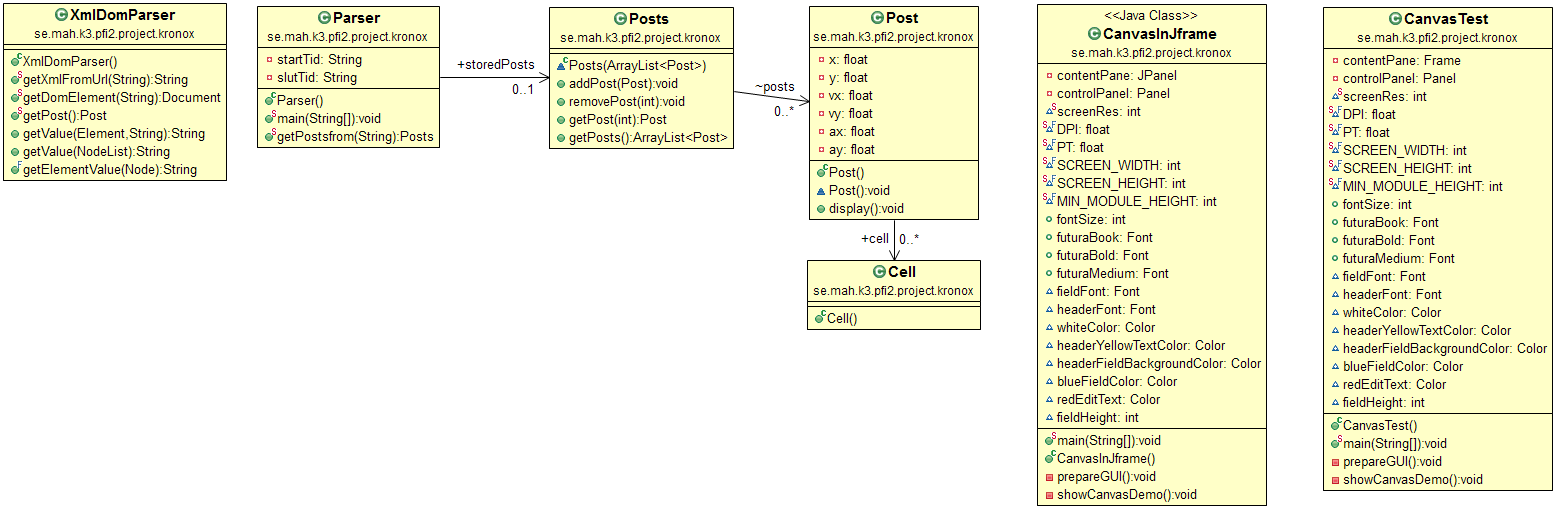
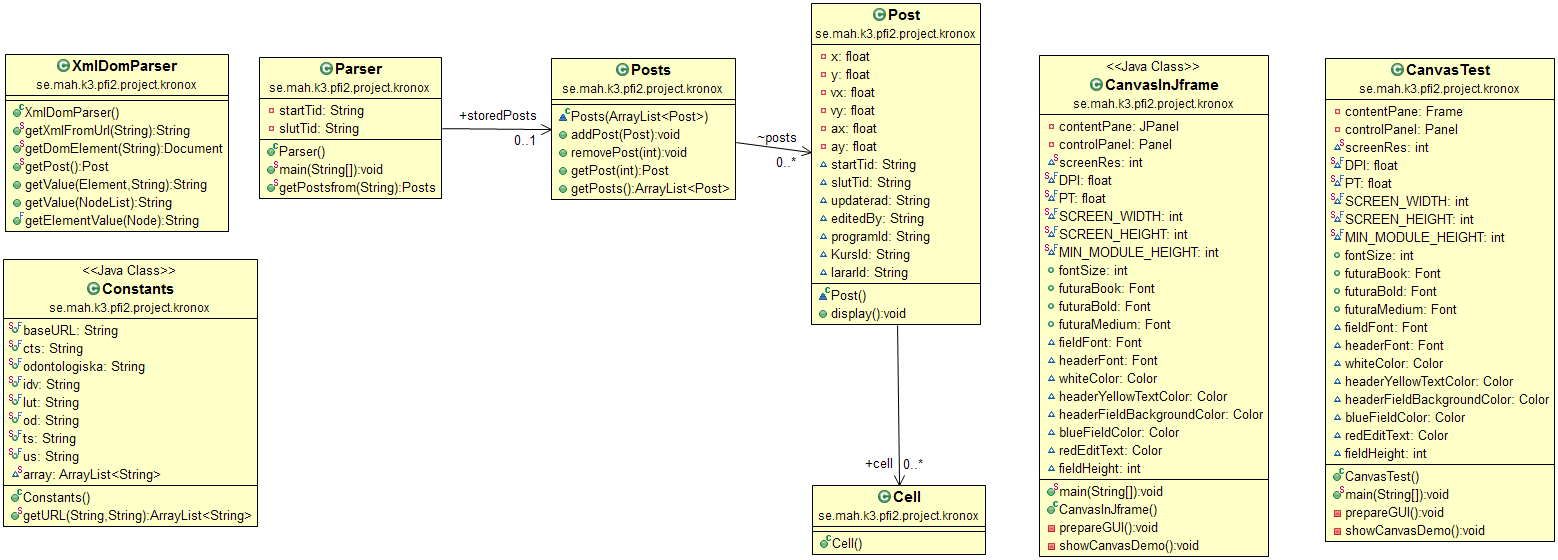
post storing data from XML & graphics in a folder

diff --git a/Pfi2Project15/src/se/mah/k3/pfi2/project/kronox/Post.java b/Pfi2Project15/src/se/mah/k3/pfi2/project/kronox/Post.java
@@ -17,8 +17,9 @@ public class Post {
 	 * 
 	 * */
 	private float x, y, vx, vy, ax, ay; // for animation
-	public Cell[] cell= new Cell[5];
-	String startTid,slutTid,updaterad,editedBy,programId,KursId,lararId;
+	private Cell[] cell= new Cell[5]; // diffrent colunm in canvas
+	private String startTid,slutTid,updaterad,editedBy,editedSince,programId,KursId,lararId,salID,moment;
+	private boolean raderad,temp,dubbelBokad,extern,onskad;
 	
 
 	Post(){
@@ -28,12 +29,183 @@ public class Post {
 		
 	}
 
-	void Post() {
-
-	}
-
 	public void display() {
 
 	}
+	public float getX() {
+		return x;
+	}
+
+	public void setX(float x) {
+		this.x = x;
+	}
+
+	public float getY() {
+		return y;
+	}
+
+	public void setY(float y) {
+		this.y = y;
+	}
+
+	public float getVx() {
+		return vx;
+	}
+
+	public void setVx(float vx) {
+		this.vx = vx;
+	}
+
+	public float getVy() {
+		return vy;
+	}
+
+	public void setVy(float vy) {
+		this.vy = vy;
+	}
+
+	public float getAx() {
+		return ax;
+	}
+
+	public void setAx(float ax) {
+		this.ax = ax;
+	}
+
+	public float getAy() {
+		return ay;
+	}
+
+	public void setAy(float ay) {
+		this.ay = ay;
+	}
+
+	public Cell[] getCell() {
+		return cell;
+	}
+
+	public void setCell(Cell[] cell) {
+		this.cell = cell;
+	}
+
+	public String getStartTid() {
+		return startTid;
+	}
+
+	public void setStartTid(String startTid) {
+		this.startTid = startTid;
+	}
+
+	public String getSlutTid() {
+		return slutTid;
+	}
+
+	public void setSlutTid(String slutTid) {
+		this.slutTid = slutTid;
+	}
+
+	public String getUpdaterad() {
+		return updaterad;
+	}
+
+	public void setUpdaterad(String updaterad) {
+		this.updaterad = updaterad;
+	}
+
+	public String getEditedBy() {
+		return editedBy;
+	}
+
+	public void setEditedBy(String editedBy) {
+		this.editedBy = editedBy;
+	}
+
+	public String getEditedSince() {
+		return editedSince;
+	}
+
+	public void setEditedSince(String editedBy) {
+		this.editedBy = editedBy;
+	}
+	public String getProgramId() {
+		return programId;
+	}
+
+	public void setProgramId(String programId) {
+		this.programId = programId;
+	}
+
+	public String getKursId() {
+		return KursId;
+	}
+
+	public void setKursId(String kursId) {
+		KursId = kursId;
+	}
+
+	public String getLararId() {
+		return lararId;
+	}
+
+	public void setLararId(String lararId) {
+		this.lararId = lararId;
+	}
+
+	public String getSalID() {
+		return salID;
+	}
+
+	public void setSalID(String salID) {
+		this.salID = salID;
+	}
+
+	public String getMoment() {
+		return moment;
+	}
+
+	public void setMoment(String moment) {
+		this.moment = moment;
+	}
+
+	public boolean isRaderad() {
+		return raderad;
+	}
+
+	public void setRaderad(boolean raderad) {
+		this.raderad = raderad;
+	}
+
+	public boolean isTemp() {
+		return temp;
+	}
+
+	public void setTemp(boolean temp) {
+		this.temp = temp;
+	}
+
+	public boolean isDubbelBokad() {
+		return dubbelBokad;
+	}
+
+	public void setDubbelBokad(boolean dubbelBokad) {
+		this.dubbelBokad = dubbelBokad;
+	}
+
+	public boolean isExtern() {
+		return extern;
+	}
+
+	public void setExtern(boolean extern) {
+		this.extern = extern;
+	}
+
+	public boolean isOnskad() {
+		return onskad;
+	}
+
+	public void setOnskad(boolean onskad) {
+		this.onskad = onskad;
+	}
+
 
 }
